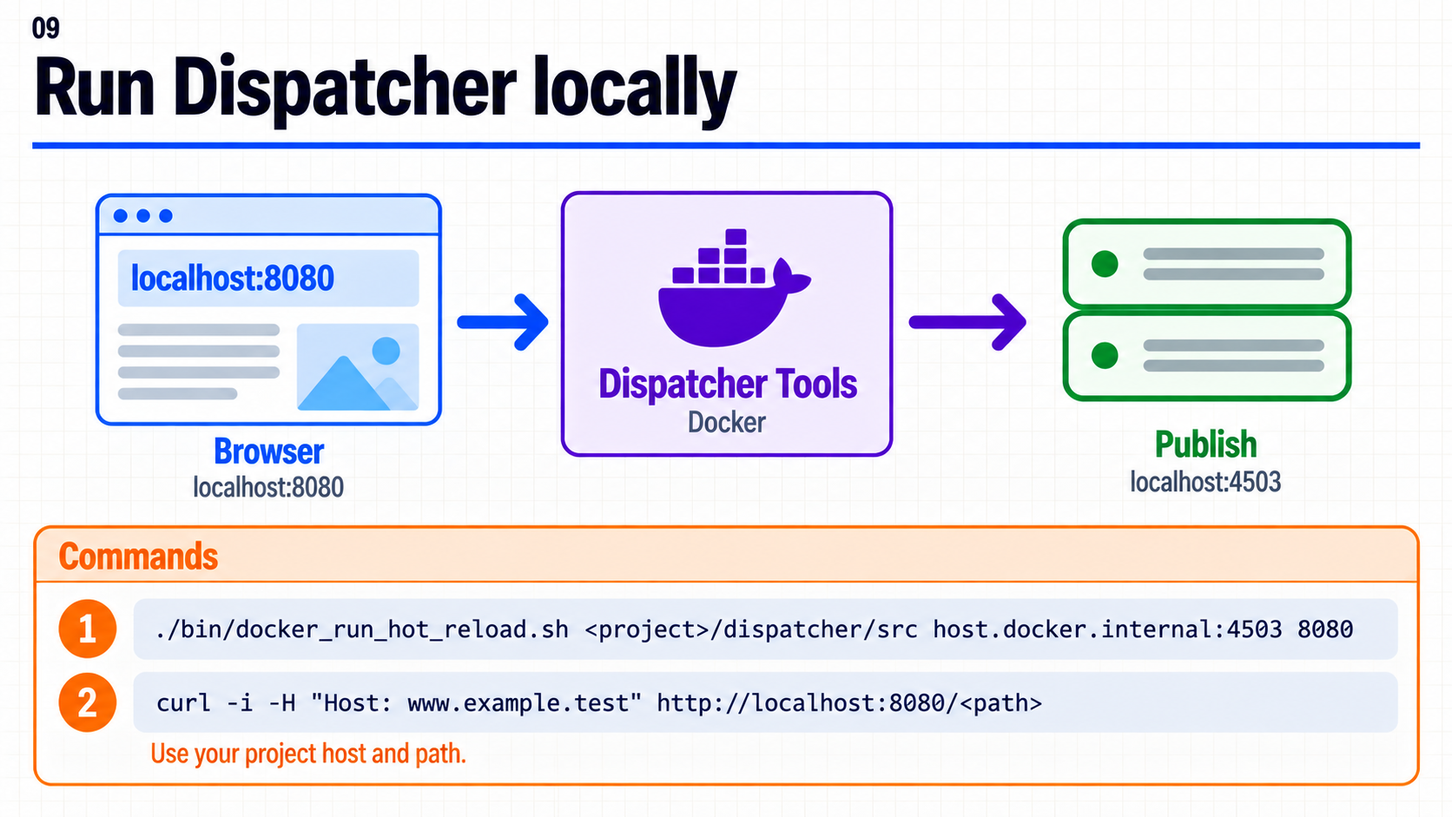
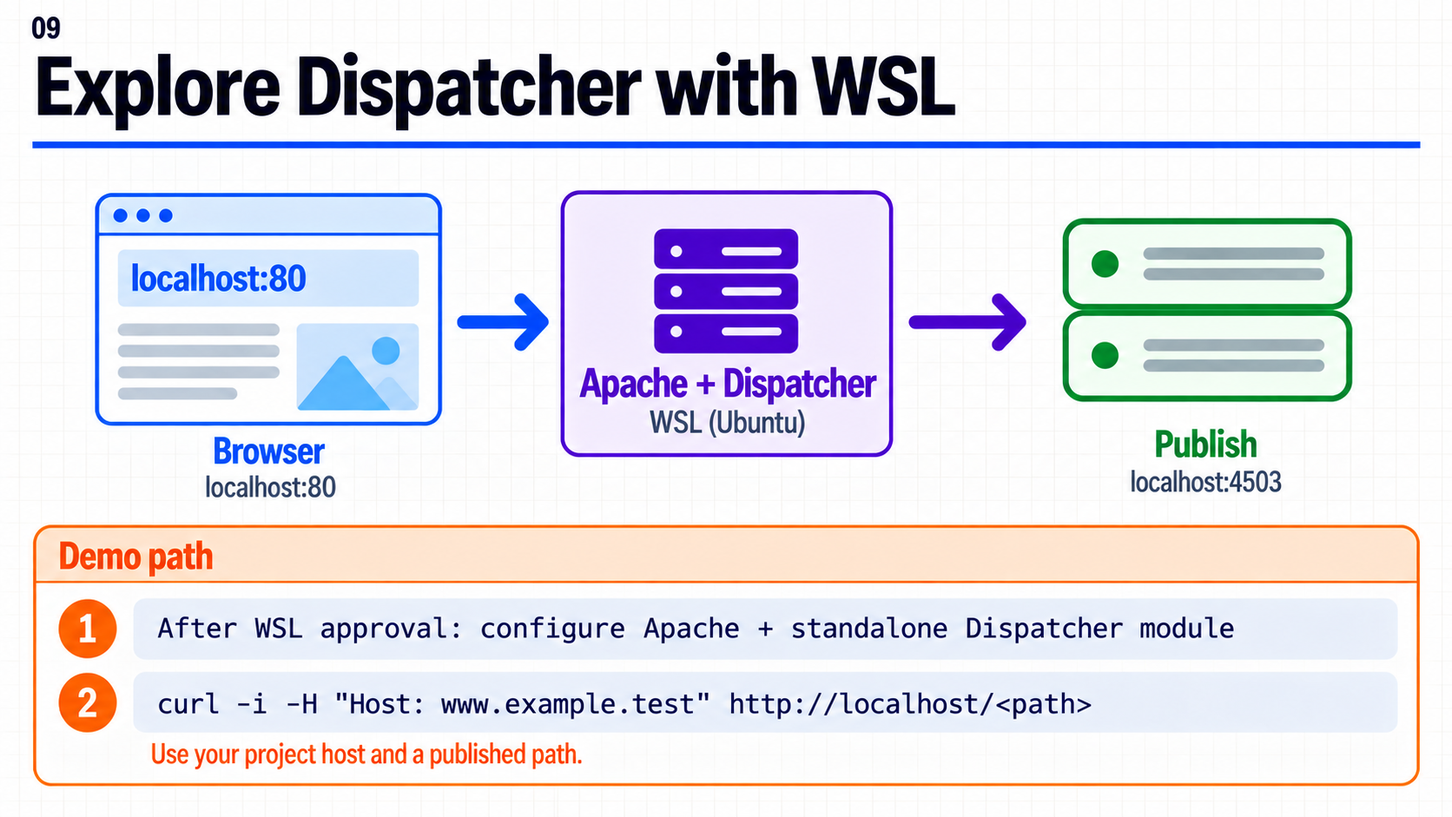
update session 32

diff --git a/reference/session-32-study-guide.html b/reference/session-32-study-guide.html
@@ -8,8 +8,8 @@
 <main id="contenido">
 <section class="callout"><strong>Objetivo:</strong> ante un 403, 404 o redirect inesperado, registrar Host, URL, status, Location, path y logs hasta identificar la primera capa que cambió o respondió la petición. El contenido ya se verificó en Publish en la sesión 31.</section>
 <nav aria-label="Contenido de la guía"><a href="#ruta">Ruta</a> · <a href="#reglas">Reglas</a> · <a href="#caso">Caso</a> · <a href="#ejemplos-locales">Demo local</a> · <a href="#diagnostico">Diagnóstico</a></nav>
-<h2>Recorrido de 30 minutos</h2><div class="table-wrap"><table><thead><tr><th>Minutos</th><th>Slides</th><th>Acción</th></tr></thead><tbody><tr><td>0–4</td><td>1–2</td><td>Fijar Host, URL y respuesta.</td></tr><tr><td>4–11</td><td>3–4</td><td>Encontrar vhost y farm.</td></tr><tr><td>11–18</td><td>5–7</td><td>Rewrite, redirect, filtro y headers.</td></tr><tr><td>18–27</td><td>8–10</td><td>403/404 con logs y práctica local.</td></tr><tr><td>27–30</td><td>11–12</td><td>Primera divergencia y cierre.</td></tr></tbody></table></div>
-<p>Para 60 minutos, añade 20 de ejecución local y 10 de discusión de las tres respuestas. El instructor prepara Publish y Dispatcher Tools. La caché y su invalidación quedan para la sesión 33.</p>
+<h2>Recorrido de 30 minutos</h2><div class="table-wrap"><table><thead><tr><th>Minutos</th><th>Slides</th><th>Acción</th></tr></thead><tbody><tr><td>0–4</td><td>1–2</td><td>Fijar Host, URL y respuesta.</td></tr><tr><td>4–11</td><td>3–4</td><td>Encontrar vhost y farm.</td></tr><tr><td>11–18</td><td>5–7</td><td>Rewrite, redirect, filtro y headers.</td></tr><tr><td>18–27</td><td>8–10</td><td>403/404 con logs simulados; práctica local sólo si WSL está listo.</td></tr><tr><td>27–30</td><td>11–12</td><td>Primera divergencia y cierre.</td></tr></tbody></table></div>
+<p>Para 60 minutos, añade 20 de ejecución local sólo si WSL y Publish ya están disponibles, y 10 de discusión. WSL sigue pendiente de aprobación en el equipo del instructor: mientras tanto, presenta el caso simulado de la sección 3. La caché y su invalidación quedan para la sesión 33.</p>
 <h2 id="ruta">1. Ruta y evidencia de una petición</h2>
 <pre tabindex="0"><code>Navegador → CDN → Apache (vhost y rewrites) → Dispatcher (farm y filtro) → Publish</code></pre>
 <p>Registra método, URL, Host, hora, status y headers antes de seguir redirecciones. No uses <code>curl -L</code> al capturar la primera respuesta. El CDN puede responder antes de Apache. Compara logs de Apache con la misma hora y Host; la ausencia de una línea sólo es un indicio si la correlación es fiable. <a href="https://experienceleague.adobe.com/en/docs/experience-manager-cloud-service/content/implementing/content-delivery/cdn-configuring-traffic">Tráfico CDN — Adobe</a> · <a href="https://experienceleague.adobe.com/en/docs/experience-manager-cloud-service/content/implementing/developing/logging">Logs Cloud — Adobe</a>.</p>
@@ -23,17 +23,17 @@
 <p><strong>Evidencia didáctica simulada; no es una ejecución registrada.</strong> El contenido de <code>/content/site/en/adventures.html</code> ya se comprobó en Publish. Usa el Host ficticio <code>www.example.test</code>.</p>
 <div class="table-wrap"><table><thead><tr><th>Observación</th><th>Primera lectura</th><th>Prueba siguiente</th></tr></thead><tbody><tr><td><code>/old</code> devuelve 302 y <code>Location: /new</code>; Publish no recibe <code>/old</code>.</td><td>Respondió una capa anterior a Publish.</td><td>Correlaciona log de Apache o CDN y regla; consulta <code>/new</code> después.</td></tr><tr><td>Una petición devuelve 404; Dispatcher registra rechazo de <code>/filter</code>; Publish no la recibe.</td><td>Corte en la farm o filtro seleccionado.</td><td>Identifica Host, farm y regla exacta.</td></tr><tr><td><code>/adventures</code> devuelve 404; Dispatcher envía un path y Publish registra 404 para él.</td><td>Corte en path resuelto o recurso destino.</td><td>Compara rewrite efectivo y path publicado.</td></tr></tbody></table></div>
 <p><strong>Respuesta:</strong> ningún status por sí solo resuelve el caso. Se necesita <code>Location</code>, presencia en access logs y decisión de Dispatcher/Publish. Un 403 se investiga de igual manera, sin asignarlo automáticamente a ACL o filtro. <a href="https://experienceleague.adobe.com/en/docs/experience-manager-cloud-service/content/implementing/developing/logging">Logging — Adobe</a>.</p>
-<section id="ejemplos-locales"><h2>4. Demo local con Dispatcher Tools</h2>
-<p>Prepara Docker, Publish del SDK en <code>localhost:4503</code>, el proyecto instalado y Dispatcher Tools del SDK. Usa un Host y una página de prueba reales de tu proyecto. Ejecuta desde la carpeta extraída de Dispatcher Tools. Adobe documenta el script de hot reload para macOS/Linux y <code>bin\docker_run</code> para Windows. <a href="https://experienceleague.adobe.com/en/docs/experience-manager-learn/cloud-service/local-development-environment-set-up/dispatcher-tools">Dispatcher Tools — Adobe</a>.</p>
-<pre tabindex="0"><code class="language-sh">./bin/docker_run_hot_reload.sh /ruta/al/proyecto/dispatcher/src host.docker.internal:4503 8080</code></pre>
-<p>En otra terminal, sustituye los valores ficticios por Host y path de tu proyecto. Captura la primera respuesta sin <code>-L</code> y compara con Publish directo.</p>
-<pre tabindex="0"><code class="language-sh">curl -i -H 'Host: www.example.test' 'http://localhost:8080/content/site/en/adventures.html'
+<section id="ejemplos-locales"><h2>4. Demo local con WSL</h2>
+<p><strong>Estado del instructor:</strong> WSL aún no está instalado; espera aprobación. La demo en vivo es opcional. Sin ese entorno, usa las tres observaciones simuladas de la sección 3 para identificar la primera capa con evidencia.</p>
+<p><strong>Cuando se apruebe WSL:</strong> sigue la <a href="windows-publish-dispatcher-sdk.html#wsl">ruta WSL sin Docker de la guía de Windows</a>. Instala Apache y el módulo independiente de Dispatcher en Ubuntu, comprueba la conexión desde WSL al Publish del SDK en Windows (<code>:4503</code>) y configura el renderer con la dirección que responda. Apache escucha en el puerto 80. Esta instalación usa su propio <code>dispatcher.any</code>; no ejecutes <code>dispatcher/src</code> del proyecto Cloud ni presentes esta prueba como validación de esa configuración. <a href="https://experienceleague.adobe.com/en/docs/experience-manager-dispatcher/using/getting-started/dispatcher-install">Instalar Dispatcher — Adobe</a> · <a href="https://learn.microsoft.com/en-us/windows/wsl/networking">Red de WSL — Microsoft</a>.</p>
+<p>Desde Windows, sustituye el Host y el path ficticios por valores reales de la configuración de prueba en WSL y una página publicada. Captura la primera respuesta sin <code>-L</code> y compárala con Publish directo.</p>
+<pre tabindex="0"><code class="language-sh">curl -i -H 'Host: www.example.test' 'http://localhost/content/site/en/adventures.html'
 curl -i 'http://localhost:4503/content/site/en/adventures.html'</code></pre>
-<ol><li>Registra status, <code>Location</code> y path. Si hay 3xx, consulta el destino en una petición nueva.</li><li>Repite con tu Host configurado y con otro Host; observa vhost y farm.</li><li>Revisa <code>stdout</code> de Dispatcher Tools. Si hace falta, arranca con <code>DISP_LOG_LEVEL=Debug REWRITE_LOG_LEVEL=Debug</code>. Correlaciona con logs de Publish.</li><li>Cambia una sola regla en una copia local, deja que hot reload la valide y repite la misma petición. Guarda antes y después; no despliegues la regla de ejercicio.</li></ol>
+<ol><li>Registra status, <code>Location</code> y path. Si hay 3xx, consulta el destino en una petición nueva.</li><li>Repite con el Host configurado en WSL y con otro Host; observa vhost y farm.</li><li>Revisa <code>/var/log/apache2/access.log</code> y <code>/var/log/apache2/dispatcher.log</code> en WSL. Correlaciona hora, Host y path con los logs de Publish.</li><li>Si el tiempo lo permite, cambia una regla local de WSL, comprueba la sintaxis con <code>sudo apache2ctl -t</code>, reinicia Apache y repite la petición. Guarda antes y después; no despliegues la regla de ejercicio.</li></ol>
 <div class="table-wrap"><table><thead><tr><th>Evidencia mínima</th><th>Registro</th></tr></thead><tbody><tr><td>Entrada</td><td>Hora, método, Host y URL.</td></tr><tr><td>Respuesta</td><td>Status y <code>Location</code> si existe.</td></tr><tr><td>Apache/Dispatcher</td><td>Vhost, farm y regla o rechazo aplicable.</td></tr><tr><td>Publish</td><td>Si recibió la petición, path y status.</td></tr><tr><td>Conclusión</td><td>Primera capa diferente con línea de evidencia.</td></tr></tbody></table></div>
-<p><strong>Resultados esperados, no ejecución registrada en este repositorio.</strong> El laboratorio separa Apache/Dispatcher de Publish; no reproduce por completo el CDN de Cloud. <a href="https://experienceleague.adobe.com/en/docs/experience-manager-learn/cloud-service/local-development-environment-set-up/dispatcher-tools">Herramientas y logs — Adobe</a>.</p></section>
+<p><strong>Resultados esperados, no ejecución registrada en este repositorio.</strong> La ruta WSL no reproduce el CDN ni valida la configuración Cloud del proyecto. <a href="https://experienceleague.adobe.com/en/docs/experience-manager-dispatcher/using/getting-started/dispatcher-install">Instalar Dispatcher — Adobe</a>.</p></section>
 <h2 id="diagnostico">5. Decidir dónde continúa el diagnóstico</h2>
 <div class="table-wrap"><table><thead><tr><th>Primera evidencia distinta</th><th>Continuación</th></tr></thead><tbody><tr><td>CDN responde y Apache no recibe la petición</td><td>Reglas y logs CDN, Host y hora.</td></tr><tr><td>Apache recibe Host incorrecto o emite 3xx</td><td>Vhost, alias y redirects/rewrites.</td></tr><tr><td>Dispatcher elige otra farm o rechaza</td><td><code>/virtualhosts</code>, <code>/filter</code> y log.</td></tr><tr><td>Publish recibe otro path o responde 403/404</td><td>Rewrite efectivo, recurso y logs de Publish.</td></tr><tr><td>Publish correcto, URL pública vieja</td><td>Sesión 33: caché e invalidación.</td></tr></tbody></table></div>
 <h2>Repaso con respuestas</h2><ol><li><strong>¿Rewrite o redirect?</strong> El redirect devuelve 3xx y <code>Location</code>; el rewrite conserva la URL del navegador.</li><li><strong>¿Por qué registrar Host?</strong> Afecta vhost y farm.</li><li><strong>¿Qué devuelve normalmente un rechazo de filtro?</strong> 404; confirma con log.</li><li><strong>¿Un 403 prueba ACL?</strong> No; primero identifica la capa.</li><li><strong>¿Para qué sirve <code>/clientheaders</code>?</strong> Define headers del cliente que pasan al renderer.</li><li><strong>¿Qué sigue si Publish es correcto pero la URL pública está vieja?</strong> Caché en la sesión 33.</li></ol>
-<h2>Fuentes oficiales</h2><ul><li><a href="https://experienceleague.adobe.com/en/docs/experience-manager-cloud-service/content/implementing/content-delivery/disp-overview">Dispatcher en Cloud — Adobe</a></li><li><a href="https://experienceleague.adobe.com/en/docs/experience-manager-dispatcher/using/configuring/dispatcher-configuration">Farm, filtros y headers — Adobe</a></li><li><a href="https://experienceleague.adobe.com/en/docs/experience-manager-cloud-service/content/implementing/content-delivery/validation-debug">Validación y debugging — Adobe</a></li><li><a href="https://experienceleague.adobe.com/en/docs/experience-manager-learn/cloud-service/local-development-environment-set-up/dispatcher-tools">Dispatcher Tools — Adobe</a></li><li><a href="https://experienceleague.adobe.com/en/docs/experience-manager-cloud-service/content/implementing/developing/logging">Logs Cloud — Adobe</a></li><li><a href="https://httpd.apache.org/docs/2.4/mod/mod_rewrite.html">mod_rewrite — Apache</a></li></ul>
+<h2>Fuentes oficiales</h2><ul><li><a href="https://experienceleague.adobe.com/en/docs/experience-manager-cloud-service/content/implementing/content-delivery/disp-overview">Dispatcher en Cloud — Adobe</a></li><li><a href="https://experienceleague.adobe.com/en/docs/experience-manager-dispatcher/using/configuring/dispatcher-configuration">Farm, filtros y headers — Adobe</a></li><li><a href="https://experienceleague.adobe.com/en/docs/experience-manager-cloud-service/content/implementing/content-delivery/validation-debug">Validación y debugging — Adobe</a></li><li><a href="https://experienceleague.adobe.com/en/docs/experience-manager-dispatcher/using/getting-started/dispatcher-install">Instalar Dispatcher — Adobe</a></li><li><a href="https://learn.microsoft.com/en-us/windows/wsl/networking">Red de WSL — Microsoft</a></li><li><a href="https://experienceleague.adobe.com/en/docs/experience-manager-cloud-service/content/implementing/developing/logging">Logs Cloud — Adobe</a></li><li><a href="https://httpd.apache.org/docs/2.4/mod/mod_rewrite.html">mod_rewrite — Apache</a></li></ul>
 </main><footer><a href="../lessons/0032-apache-dispatcher-request.html">Material de la sesión 32</a> · <a href="index.html">Referencias</a></footer></body></html>

diff --git a/lessons/0032-apache-dispatcher-request.html b/lessons/0032-apache-dispatcher-request.html
@@ -3,11 +3,11 @@
 <head><meta charset="utf-8"><meta name="viewport" content="width=device-width, initial-scale=1"><title>Class 32 · Apache and Dispatcher request processing · AEM Training</title><link rel="stylesheet" href="../assets/styles.css"></head>
 <body><a class="skip-link" href="#content">Skip to content</a>
 <nav class="site-nav" aria-label="Primary"><a class="brand" href="../index.html">AEM Training</a><ul><li><a href="../index.html">Overview</a></li><li><a href="../reference/aem-course-topics.html">Syllabus</a></li><li><a href="../reference/wknd-project-backlog.html">Practices</a></li><li><a href="../reference/index.html">References</a></li></ul></nav>
-<header><p class="eyebrow">Class 32 · Week 7 · September 29, 2026</p><h1>Apache and Dispatcher request processing</h1><p class="lede">Find the first layer that changes or answers a public URL after the content is correct on Publish.</p><ul class="meta"><li>30-minute core · up to 60 minutes</li><li>Local Dispatcher Tools demo</li><li><a href="../reference/session-32-study-guide.html">Guía completa en español</a></li></ul></header>
+<header><p class="eyebrow">Class 32 · Week 7 · September 29, 2026</p><h1>Apache and Dispatcher request processing</h1><p class="lede">Find the first layer that changes or answers a public URL after the content is correct on Publish.</p><ul class="meta"><li>30-minute core · up to 60 minutes</li><li>Local WSL demo, pending approval</li><li><a href="../reference/session-32-study-guide.html">Guía completa en español</a></li></ul></header>
 <main id="content"><section class="callout"><strong>Session focus:</strong> capture one Host and URL, then correlate response headers and logs across Apache, Dispatcher and Publish.</section>
 <h2>Topic summary</h2><p>Apache selects a virtual host and applies request rules. Dispatcher selects a farm, evaluates filters and routes allowed requests to a renderer. An internal rewrite keeps the browser URL; a redirect sends a 3xx response and Location. A denied Dispatcher filter request normally returns 404. A 403 or 404 alone does not identify the responding layer.</p>
-<h2>30-minute agenda</h2><div class="table-wrap"><table><thead><tr><th>Time</th><th>Slides</th><th>Focus</th></tr></thead><tbody><tr><td>0–4</td><td>1–2</td><td>One Host, URL and request route.</td></tr><tr><td>4–11</td><td>3–4</td><td>Virtual host and Dispatcher farm.</td></tr><tr><td>11–18</td><td>5–7</td><td>Rewrite, redirect, filters and headers.</td></tr><tr><td>18–27</td><td>8–10</td><td>403/404 investigation and local comparison.</td></tr><tr><td>27–30</td><td>11–12</td><td>First divergence and questions.</td></tr></tbody></table></div>
-<p>For 60 minutes, add a guided local run and discuss the three supplied response traces. The <a href="../reference/session-32-study-guide.html">Spanish guide</a> includes commands, evidence fields and expected answers.</p>
+<h2>30-minute agenda</h2><div class="table-wrap"><table><thead><tr><th>Time</th><th>Slides</th><th>Focus</th></tr></thead><tbody><tr><td>0–4</td><td>1–2</td><td>One Host, URL and request route.</td></tr><tr><td>4–11</td><td>3–4</td><td>Virtual host and Dispatcher farm.</td></tr><tr><td>11–18</td><td>5–7</td><td>Rewrite, redirect, filters and headers.</td></tr><tr><td>18–27</td><td>8–10</td><td>403/404 investigation with supplied traces; local run if ready.</td></tr><tr><td>27–30</td><td>11–12</td><td>First divergence and questions.</td></tr></tbody></table></div>
+<p>For 60 minutes, run the local exercise only if WSL and Publish are ready; otherwise, discuss the three supplied response traces. The <a href="../reference/session-32-study-guide.html">Spanish guide</a> includes commands, evidence fields and expected answers.</p>
 <h2 id="slide-deck">Complete slide deck</h2><p>Copy each complete numbered image to PowerPoint or download its PNG.</p><div class="web-deck">
 <article class="web-slide" data-slide-src="../slides/lesson-32/origin_image/slide_01.png"><img class="web-slide-image" src="../slides/lesson-32/origin_image/slide_01.png" alt="01. Apache and Dispatcher request processing. Class 32 · Week 7 · September 29, 2026 Juan Maldonado Follow a public URL to the response owner."><div class="slide-actions no-print"><button type="button" data-copy-slide>Copy slide as image</button><a href="../slides/lesson-32/origin_image/slide_01.png" download>Download PNG</a><span data-copy-status aria-live="polite"></span></div></article>
 <article class="web-slide" data-slide-src="../slides/lesson-32/origin_image/slide_02.png"><img class="web-slide-image" src="../slides/lesson-32/origin_image/slide_02.png" alt="02. Trace one HTTP request. Browser, CDN, Apache vhost, Dispatcher farm and filter, Publish. Track Host and URL as each layer processes the request. Compare status, Location and resolved path." loading="lazy"><div class="slide-actions no-print"><button type="button" data-copy-slide>Copy slide as image</button><a href="../slides/lesson-32/origin_image/slide_02.png" download>Download PNG</a><span data-copy-status aria-live="polite"></span></div></article>
@@ -17,14 +17,14 @@
 <article class="web-slide" data-slide-src="../slides/lesson-32/origin_image/slide_06.png"><img class="web-slide-image" src="../slides/lesson-32/origin_image/slide_06.png" alt="06. Dispatcher request filters. A filter can match method, URL, selectors or extension. Allowed requests continue to Publish; a denied filter request returns 404. Use logs to prove the matched rule." loading="lazy"><div class="slide-actions no-print"><button type="button" data-copy-slide>Copy slide as image</button><a href="../slides/lesson-32/origin_image/slide_06.png" download>Download PNG</a><span data-copy-status aria-live="polite"></span></div></article>
 <article class="web-slide" data-slide-src="../slides/lesson-32/origin_image/slide_07.png"><img class="web-slide-image" src="../slides/lesson-32/origin_image/slide_07.png" alt="07. Headers across the boundary. Host affects vhost and farm selection. Check which request headers reach Publish through clientheaders. Record response status, Location and cache headers." loading="lazy"><div class="slide-actions no-print"><button type="button" data-copy-slide>Copy slide as image</button><a href="../slides/lesson-32/origin_image/slide_07.png" download>Download PNG</a><span data-copy-status aria-live="polite"></span></div></article>
 <article class="web-slide" data-slide-src="../slides/lesson-32/origin_image/slide_08.png"><img class="web-slide-image" src="../slides/lesson-32/origin_image/slide_08.png" alt="08. Who returned 403 or 404? Check Apache access logs, Dispatcher decisions and Publish request logs. HTTP status alone does not name the layer." loading="lazy"><div class="slide-actions no-print"><button type="button" data-copy-slide>Copy slide as image</button><a href="../slides/lesson-32/origin_image/slide_08.png" download>Download PNG</a><span data-copy-status aria-live="polite"></span></div></article>
-<article class="web-slide" data-slide-src="../slides/lesson-32/origin_image/slide_09.png"><img class="web-slide-image" src="../slides/lesson-32/origin_image/slide_09.png" alt="09. Run Dispatcher locally. Browser at localhost:8080, Dispatcher Tools Docker and Publish at localhost:4503. Use the project host and path in curl." loading="lazy"><div class="slide-actions no-print"><button type="button" data-copy-slide>Copy slide as image</button><a href="../slides/lesson-32/origin_image/slide_09.png" download>Download PNG</a><span data-copy-status aria-live="polite"></span></div></article>
+<article class="web-slide" data-slide-src="../slides/lesson-32/origin_image/slide_09.png"><img class="web-slide-image" src="../slides/lesson-32/origin_image/slide_09.png" alt="09. Explore Dispatcher with WSL. Browser at localhost:80, Apache and standalone Dispatcher in WSL, and Publish at localhost:4503. Set up WSL after approval, then use the project host and a published path in curl." loading="lazy"><div class="slide-actions no-print"><button type="button" data-copy-slide>Copy slide as image</button><a href="../slides/lesson-32/origin_image/slide_09.png" download>Download PNG</a><span data-copy-status aria-live="polite"></span></div></article>
 <article class="web-slide" data-slide-src="../slides/lesson-32/origin_image/slide_10.png"><img class="web-slide-image" src="../slides/lesson-32/origin_image/slide_10.png" alt="10. Three responses, three checks. 301/302 from Apache: inspect redirect rule. 404 at Dispatcher: inspect farm and filter logs. 404 at Publish: inspect resolved content path." loading="lazy"><div class="slide-actions no-print"><button type="button" data-copy-slide>Copy slide as image</button><a href="../slides/lesson-32/origin_image/slide_10.png" download>Download PNG</a><span data-copy-status aria-live="polite"></span></div></article>
 <article class="web-slide" data-slide-src="../slides/lesson-32/origin_image/slide_11.png"><img class="web-slide-image" src="../slides/lesson-32/origin_image/slide_11.png" alt="11. Find the first divergence. Capture Host and URL; inspect status and Location. Read Apache and Dispatcher logs; compare the same path on Publish." loading="lazy"><div class="slide-actions no-print"><button type="button" data-copy-slide>Copy slide as image</button><a href="../slides/lesson-32/origin_image/slide_11.png" download>Download PNG</a><span data-copy-status aria-live="polite"></span></div></article>
 <article class="web-slide" data-slide-src="../slides/lesson-32/origin_image/slide_12.png"><img class="web-slide-image" src="../slides/lesson-32/origin_image/slide_12.png" alt="12. Questions. Thank you." loading="lazy"><div class="slide-actions no-print"><button type="button" data-copy-slide>Copy slide as image</button><a href="../slides/lesson-32/origin_image/slide_12.png" download>Download PNG</a><span data-copy-status aria-live="polite"></span></div></article></div>
-<section id="ejemplos-locales" lang="es"><h2>Demo local</h2><p>Ejecuta Dispatcher Tools contra el <code>dispatcher/src</code> de tu proyecto y Publish local <code>:4503</code>. Haz una petición a <code>:8080</code> con el Host configurado y compárala con Publish. La <a href="../reference/session-32-study-guide.html#ejemplos-locales">guía paso a paso</a> separa redirect, rechazo de filtro y 404 en Publish. Los resultados son esperados; no hay una ejecución local registrada en este repositorio.</p></section>
+<section id="ejemplos-locales" lang="es"><h2>Demo local con WSL</h2><p>WSL aún espera aprobación en el equipo del instructor. Mientras tanto, usa el caso simulado de la guía. Cuando esté disponible, configura Apache y el módulo independiente de Dispatcher en WSL y compáralo con Publish local <code>:4503</code>. La <a href="../reference/session-32-study-guide.html#ejemplos-locales">guía paso a paso</a> indica la preparación y las peticiones; esta ruta no valida el <code>dispatcher/src</code> de Cloud. No hay una ejecución local registrada en este repositorio.</p></section>
 <h2>Official references</h2><ul>
 <li><a href="https://experienceleague.adobe.com/en/docs/experience-manager-dispatcher/using/configuring/dispatcher-configuration">Adobe Dispatcher configuration</a></li>
-<li><a href="https://experienceleague.adobe.com/en/docs/experience-manager-learn/cloud-service/local-development-environment-set-up/dispatcher-tools">Adobe Dispatcher Tools</a></li>
+<li><a href="https://experienceleague.adobe.com/en/docs/experience-manager-dispatcher/using/getting-started/dispatcher-install">Adobe standalone Dispatcher installation</a></li>
 <li><a href="https://experienceleague.adobe.com/en/docs/experience-manager-cloud-service/content/implementing/content-delivery/validation-debug">Adobe validation and debugging</a></li>
 <li><a href="https://experienceleague.adobe.com/en/docs/experience-manager-cloud-service/content/implementing/developing/logging">Adobe Cloud logging</a></li>
 <li><a href="https://httpd.apache.org/docs/2.4/mod/mod_rewrite.html">Apache mod_rewrite</a></li></ul>

diff --git a/reference/session-32-study-guide.md b/reference/session-32-study-guide.md
@@ -8,7 +8,7 @@
 
 Ante una URL pública que devuelve 403, 404 o una redirección inesperada mientras el contenido correcto ya existe en Publish, identificar **la primera capa que cambió la petición o respondió**. El participante entrega Host, URL, código, `Location` si existe, path resuelto y la línea de log que sostiene su conclusión.
 
-La sesión 31 terminó al comprobar Publish. Aquí seguimos **una sola petición HTTP** por CDN, Apache, Dispatcher y Publish. La caché y su invalidación se estudian en la sesión 33. La práctica local usa Dispatcher Tools y el Publish del SDK; no afirma reproducir el CDN administrado de Cloud. [Flujo de entrega — Adobe](https://experienceleague.adobe.com/en/docs/experience-manager-cloud-service/content/implementing/content-delivery/overview) · [Dispatcher Tools — Adobe](https://experienceleague.adobe.com/en/docs/experience-manager-learn/cloud-service/local-development-environment-set-up/dispatcher-tools).
+La sesión 31 terminó al comprobar Publish. Aquí seguimos **una sola petición HTTP** por CDN, Apache, Dispatcher y Publish. La caché y su invalidación se estudian en la sesión 33. La demo prevista usa Apache y el módulo independiente de Dispatcher en WSL, conectado al Publish del SDK en Windows. Es una adaptación didáctica: no ejecuta la configuración Cloud `dispatcher/src` ni reproduce el CDN administrado. [Flujo de entrega — Adobe](https://experienceleague.adobe.com/en/docs/experience-manager-cloud-service/content/implementing/content-delivery/overview) · [Instalar Dispatcher — Adobe](https://experienceleague.adobe.com/en/docs/experience-manager-dispatcher/using/getting-started/dispatcher-install).
 
 ## Recorrido de 30 minutos
 
@@ -17,10 +17,10 @@ La sesión 31 terminó al comprobar Publish. Aquí seguimos **una sola petición
 | 0–4 | 1–2 | Fijar Host, URL y respuesta observada; dibujar la ruta. |
 | 4–11 | 3–4 | Encontrar vhost y farm aplicables. |
 | 11–18 | 5–7 | Distinguir rewrite, redirect, filtro y headers. |
-| 18–27 | 8–10 | Comparar 403/404 con logs y ejecutar la prueba local. |
+| 18–27 | 8–10 | Comparar 403/404 con logs simulados; prueba local sólo si WSL está listo. |
 | 27–30 | 11–12 | Nombrar la primera divergencia y cerrar. |
 
-Para 60 minutos, añade 20 de ejecución local y 10 de discusión de las tres respuestas del caso. El instructor prepara de antemano Publish local, el proyecto y Dispatcher Tools; cada participante puede analizar el registro sin acceso a Cloud Manager.
+Para 60 minutos, añade 20 de ejecución local sólo si WSL y Publish ya están disponibles, y 10 de discusión de las tres respuestas del caso. WSL sigue pendiente de aprobación en el equipo del instructor; mientras tanto, presenta el caso simulado de la sección 3 y pide al grupo identificar la primera capa con la evidencia suministrada.
 
 ## 1. Ruta y evidencia de una petición
 
@@ -61,23 +61,21 @@ La configuración de `/filter` puede usar método, URL, query, path, selectors, 
 
 ## Demo local
 
-**Preparación:** Docker, Publish del SDK en `localhost:4503`, proyecto instalado en Publish y Dispatcher Tools del SDK. Usa el Host que realmente figure en `dispatcher/src/conf.d/available_vhosts` y una página de prueba publicada. El comando se ejecuta desde la carpeta extraída de Dispatcher Tools. En macOS/Linux Adobe documenta `docker_run_hot_reload.sh` para recargar cambios de configuración; en Windows se usa `bin\docker_run`. [Preparar Dispatcher Tools — Adobe](https://experienceleague.adobe.com/en/docs/experience-manager-learn/cloud-service/local-development-environment-set-up/dispatcher-tools).
+**Estado del instructor:** WSL aún no está instalado; espera aprobación. La demo en vivo es opcional. Sin ese entorno, usa las tres observaciones simuladas de la sección 3 y compara las decisiones de Apache, Dispatcher y Publish sobre el papel.
+
+**Cuando se apruebe WSL:** sigue la [ruta WSL sin Docker de la guía de Windows](windows-publish-dispatcher-sdk.html#wsl): instala Apache y el módulo independiente de Dispatcher en Ubuntu, comprueba desde WSL la conexión al Publish del SDK en Windows (`:4503`) y configura el renderer con la dirección que responda. La guía usa Apache en el puerto 80. Esta instalación tiene su propio `dispatcher.any`: no copies `dispatcher/src` del proyecto Cloud ni presentes la prueba como validación de esa configuración. [Instalación del módulo — Adobe](https://experienceleague.adobe.com/en/docs/experience-manager-dispatcher/using/getting-started/dispatcher-install) · [Red de WSL — Microsoft](https://learn.microsoft.com/en-us/windows/wsl/networking).
+
+Desde Windows, sustituye Host y path por valores reales de tu proyecto y de la configuración de prueba en WSL. La primera petición preserva la respuesta original; la segunda contrasta directamente con Publish.
 
 ```sh
-./bin/docker_run_hot_reload.sh /ruta/al/proyecto/dispatcher/src host.docker.internal:4503 8080
-```
-
-En otra terminal, sustituye Host y path por valores de tu proyecto. La primera petición preserva la respuesta original; la segunda contrasta directamente con Publish.
-
-```sh
-curl -i -H 'Host: www.example.test' 'http://localhost:8080/content/site/en/adventures.html'
+curl -i -H 'Host: www.example.test' 'http://localhost/content/site/en/adventures.html'
 curl -i 'http://localhost:4503/content/site/en/adventures.html'
 ```
 
 1. Registra status, `Location` si aparece y el path solicitado en ambas respuestas. Si se produce 3xx, haz una petición **nueva** al destino después de documentar la primera.
-2. Repite con el Host de tu proyecto y con un Host distinto. Observa qué vhost y farm se eligen; no supongas que el Host ficticio del ejemplo coincide con tu configuración.
-3. Revisa el `stdout` de Dispatcher Tools y, si necesitas más detalle, arráncalo con `DISP_LOG_LEVEL=Debug REWRITE_LOG_LEVEL=Debug` antes del comando. Busca el request, farm, rewrite o rechazo; correlaciona con access y request logs de Publish.
-4. Cambia **una sola regla en una copia local** de la configuración, deja que hot reload la valide y repite exactamente la misma petición. Guarda antes/después. No despliegues la regla de ejercicio.
+2. Repite con el Host configurado en WSL y con un Host distinto. Observa qué vhost y farm se eligen; no supongas que el Host ficticio del ejemplo existe en tu configuración.
+3. Revisa `/var/log/apache2/access.log` y `/var/log/apache2/dispatcher.log` en WSL; correlaciona hora, Host y path con los logs de Publish.
+4. Si el tiempo lo permite, cambia **una sola regla en la configuración local de WSL**, comprueba la sintaxis con `sudo apache2ctl -t`, reinicia Apache y repite la misma petición. Guarda antes/después. No despliegues la regla de ejercicio.
 
 | Evidencia mínima | Registro esperado |
 | --- | --- |
@@ -87,7 +85,7 @@ curl -i 'http://localhost:4503/content/site/en/adventures.html'
 | Publish | Si llegó la petición, path y status de destino. |
 | Conclusión | Primera capa con una decisión distinta y evidencia citada. |
 
-**Resultado esperado, no ejecución registrada.** El ejercicio separa una decisión de Apache/Dispatcher de una respuesta generada por Publish. Las herramientas locales no reproducen por completo la capa CDN de Cloud. [Dispatcher Tools y logs — Adobe](https://experienceleague.adobe.com/en/docs/experience-manager-learn/cloud-service/local-development-environment-set-up/dispatcher-tools) · [Logging — Adobe](https://experienceleague.adobe.com/en/docs/experience-manager-cloud-service/content/implementing/developing/logging).
+**Resultado esperado, no ejecución registrada.** El ejercicio separa una decisión de Apache/Dispatcher de una respuesta generada por Publish. La ruta WSL no reproduce el CDN ni valida la configuración Cloud del proyecto. [Instalar Dispatcher — Adobe](https://experienceleague.adobe.com/en/docs/experience-manager-dispatcher/using/getting-started/dispatcher-install) · [Logging — Adobe](https://experienceleague.adobe.com/en/docs/experience-manager-cloud-service/content/implementing/developing/logging).
 
 ## Decisión al cierre
 
@@ -113,6 +111,7 @@ curl -i 'http://localhost:4503/content/site/en/adventures.html'
 - [Dispatcher en Cloud y herramientas locales — Adobe](https://experienceleague.adobe.com/en/docs/experience-manager-cloud-service/content/implementing/content-delivery/disp-overview)
 - [Configurar Dispatcher, farm, filtros y headers — Adobe](https://experienceleague.adobe.com/en/docs/experience-manager-dispatcher/using/configuring/dispatcher-configuration)
 - [Validar y depurar Apache/Dispatcher — Adobe](https://experienceleague.adobe.com/en/docs/experience-manager-cloud-service/content/implementing/content-delivery/validation-debug)
-- [Dispatcher Tools locales — Adobe](https://experienceleague.adobe.com/en/docs/experience-manager-learn/cloud-service/local-development-environment-set-up/dispatcher-tools)
+- [Instalar el módulo independiente de Dispatcher — Adobe](https://experienceleague.adobe.com/en/docs/experience-manager-dispatcher/using/getting-started/dispatcher-install)
+- [Red de WSL — Microsoft](https://learn.microsoft.com/en-us/windows/wsl/networking)
 - [Logs en AEM Cloud — Adobe](https://experienceleague.adobe.com/en/docs/experience-manager-cloud-service/content/implementing/developing/logging)
 - [mod_rewrite y flags — Apache](https://httpd.apache.org/docs/2.4/mod/mod_rewrite.html)

diff --git a/slides/lesson-32/outline.md b/slides/lesson-32/outline.md
@@ -1,6 +1,6 @@
 # Session 32 · Apache and Dispatcher request processing
 
-Twelve English PNG slides; Spanish guide and local Dispatcher Tools exercise. No PPTX or speaker notes.
+Twelve English PNG slides; Spanish guide and planned local WSL exercise. No PPTX or speaker notes.
 
 ## Slide 01 · Apache and Dispatcher request processing
 - Class 32 · Week 7 · September 29, 2026
@@ -38,9 +38,9 @@ Twelve English PNG slides; Spanish guide and local Dispatcher Tools exercise. No
 - Check Apache access logs, Dispatcher decisions and Publish request logs.
 - HTTP status alone does not name the layer.
 
-## Slide 09 · Run Dispatcher locally
-- Browser at localhost:8080, Dispatcher Tools Docker and Publish at localhost:4503.
-- Use the project host and path in curl.
+## Slide 09 · Explore Dispatcher with WSL
+- Browser at localhost:80, Apache with standalone Dispatcher in WSL, and Publish at localhost:4503.
+- Set up WSL after approval; use the project host and a published path in curl.
 
 ## Slide 10 · Three responses, three checks
 - 301/302 from Apache: inspect redirect rule.
